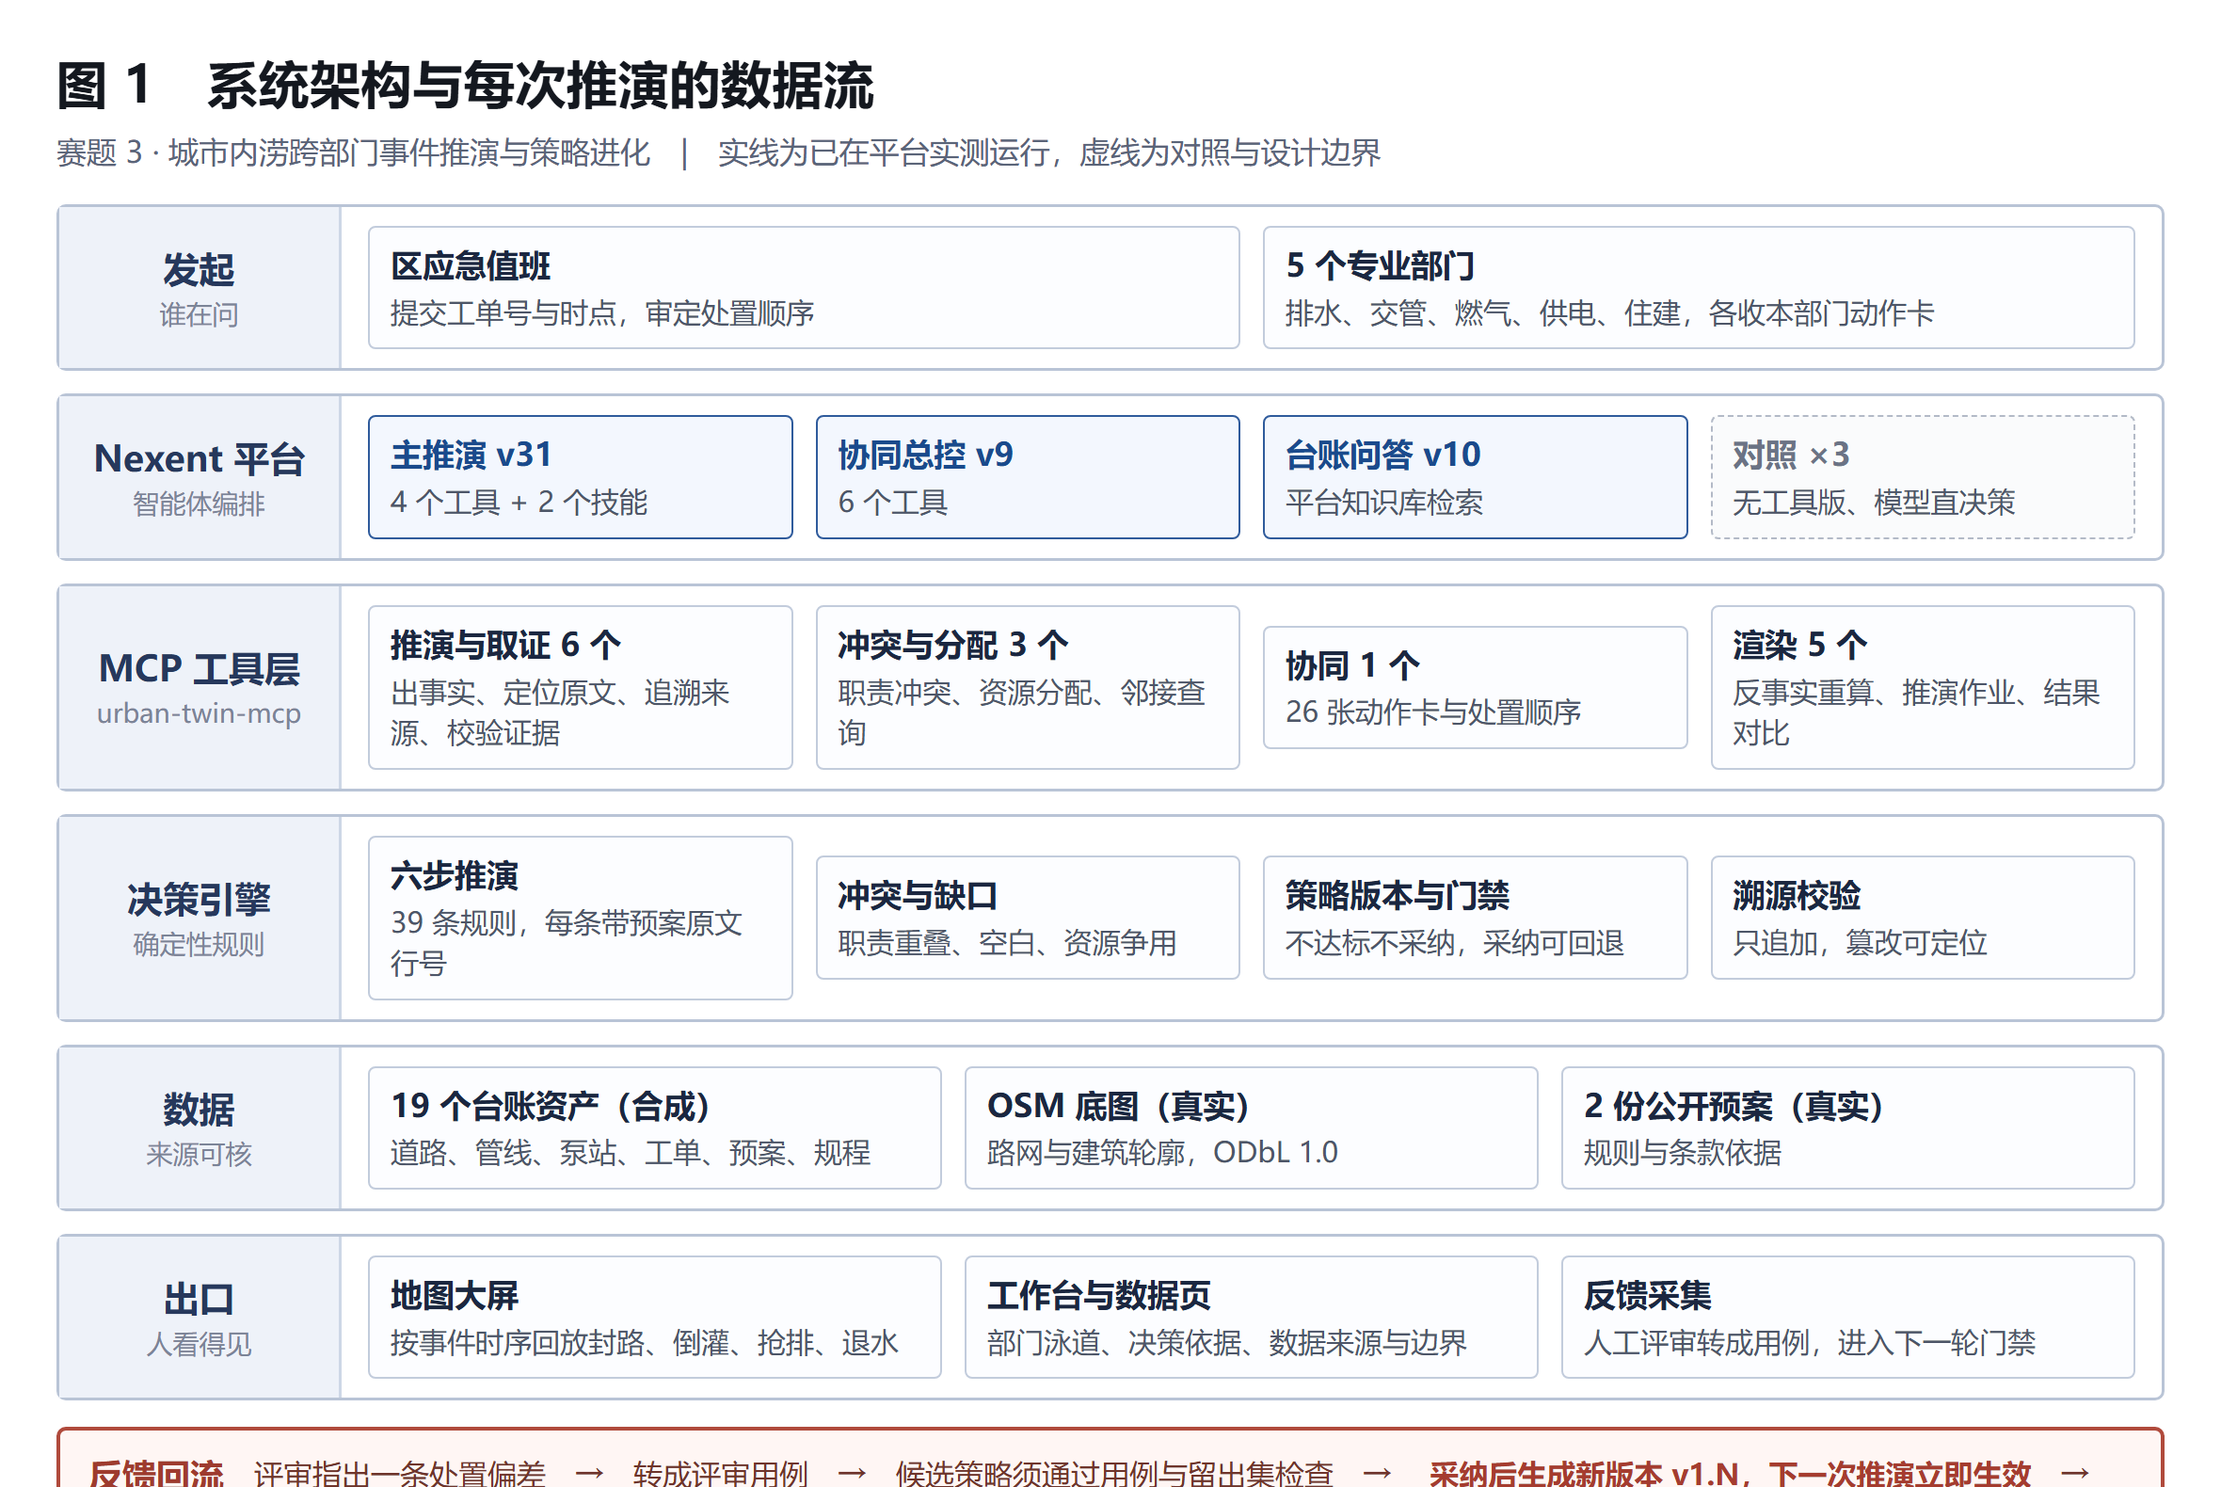
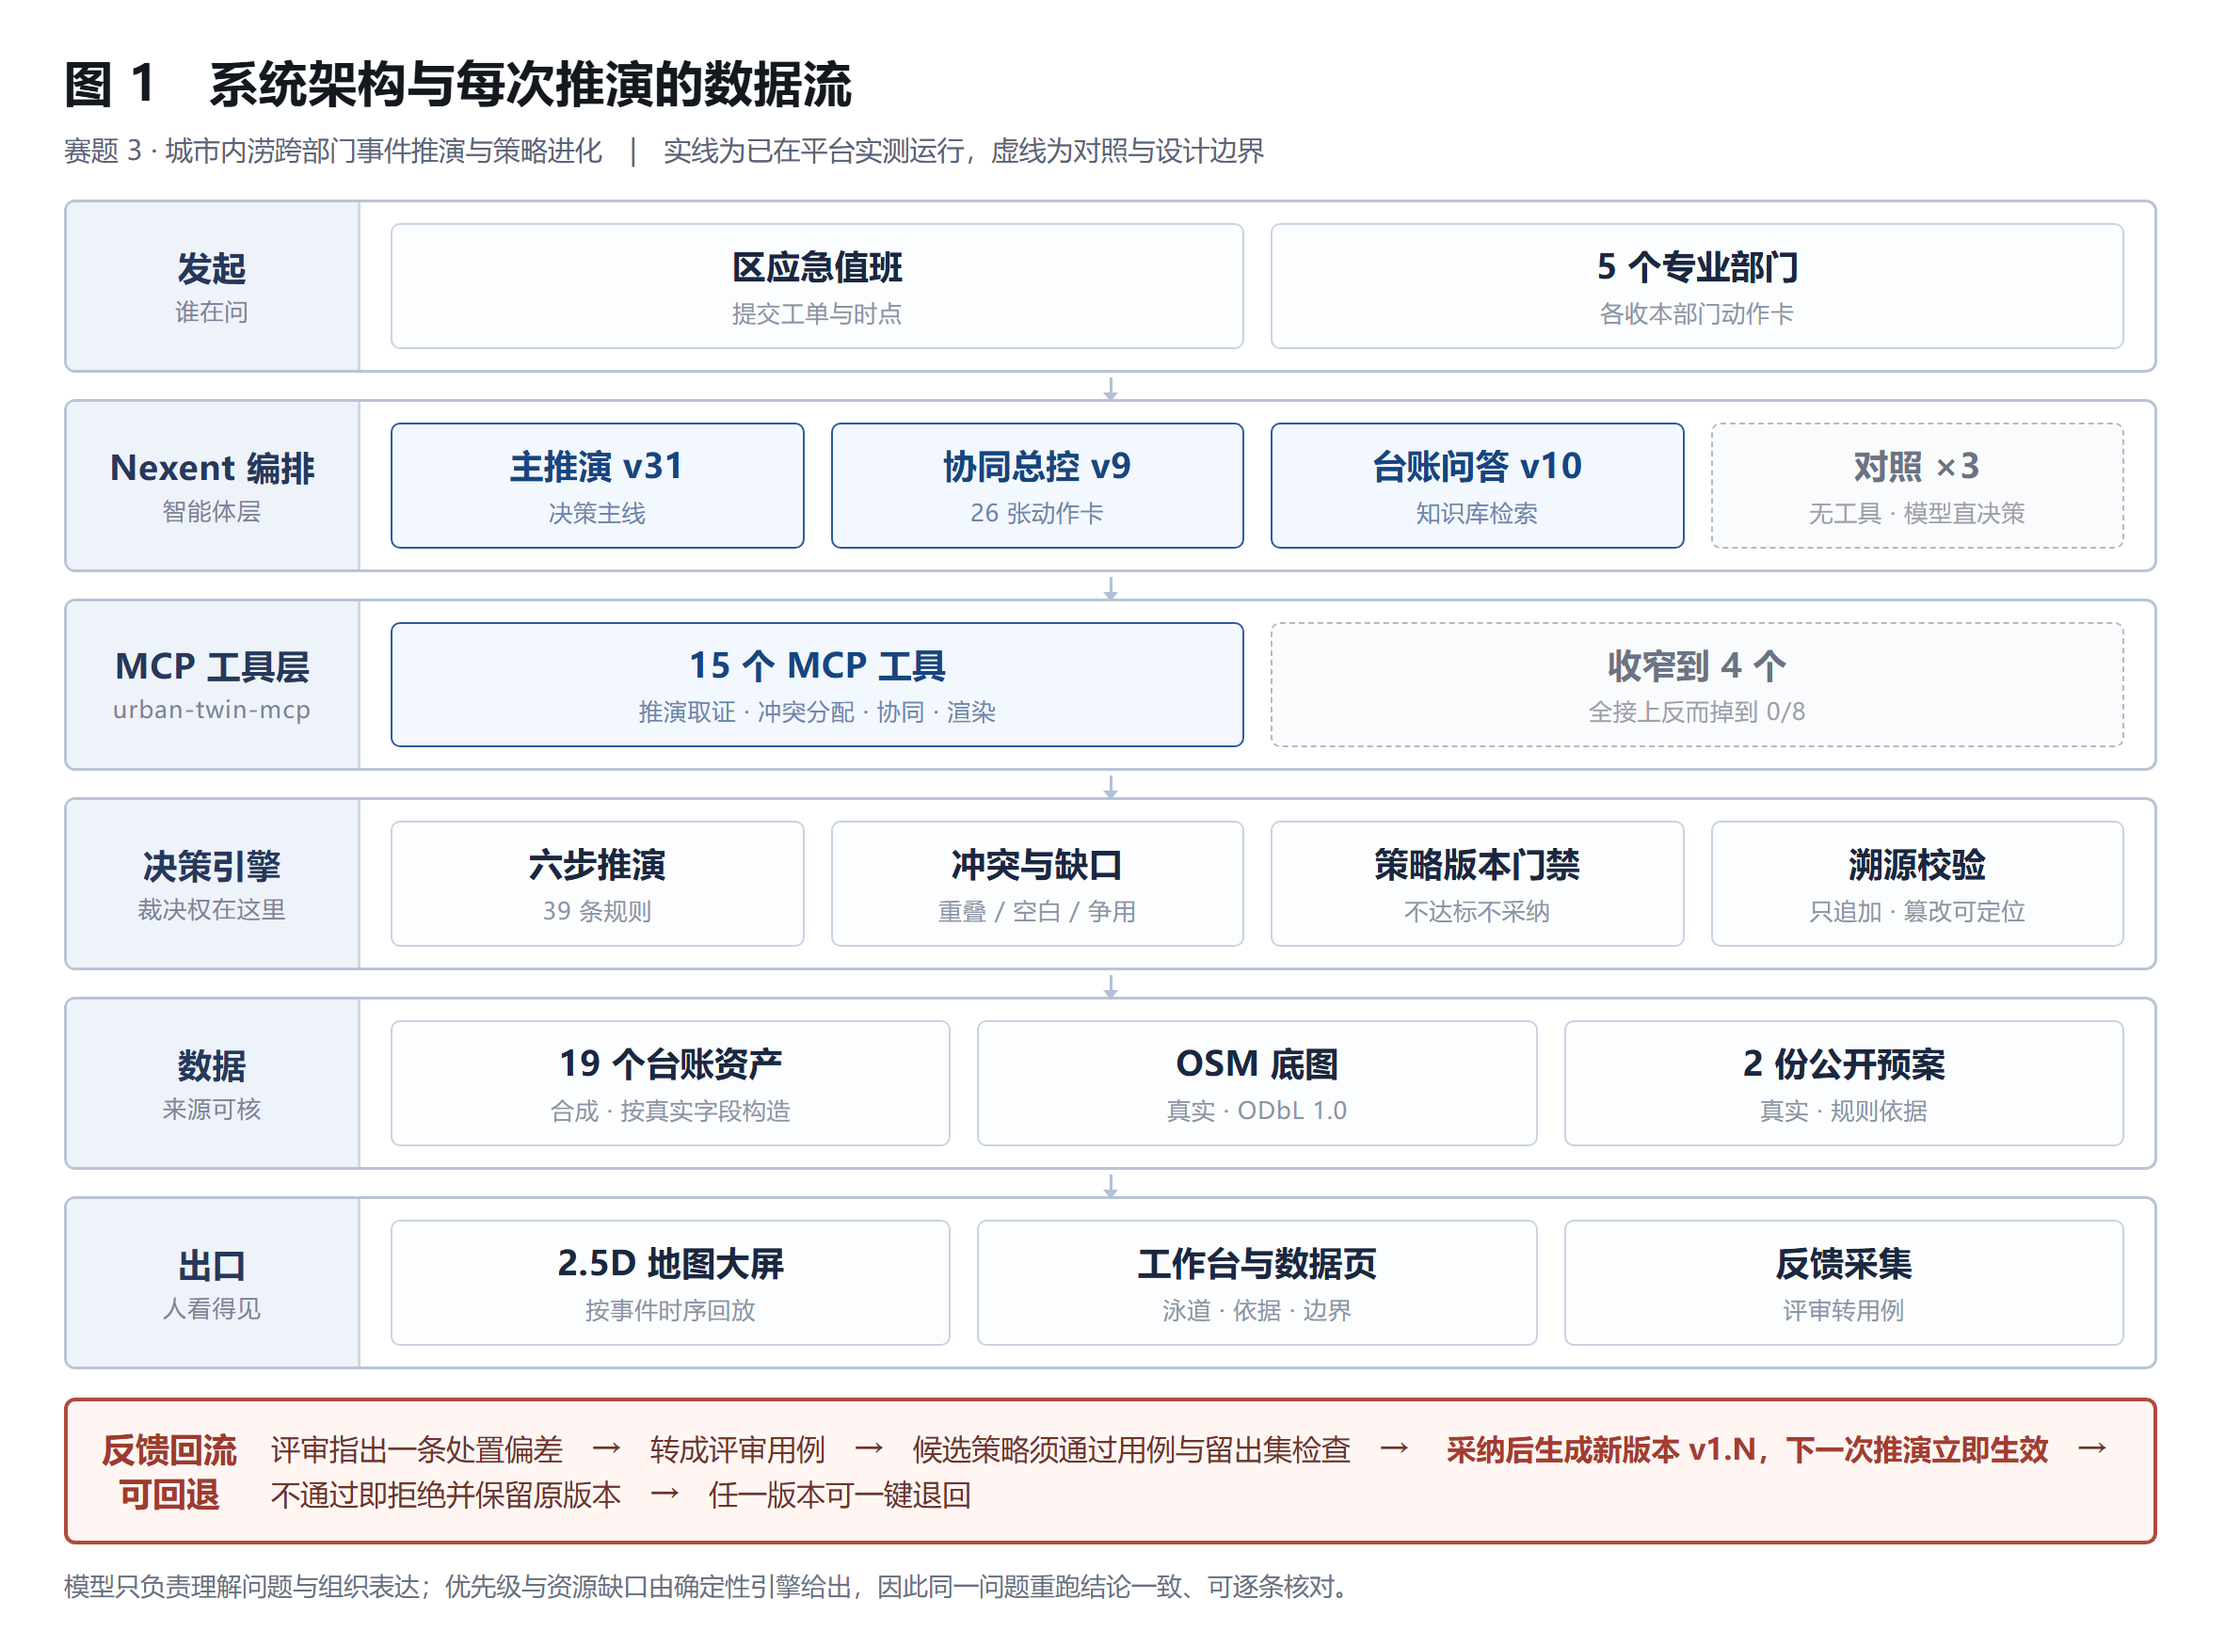
docs(readme): 目录导航上移图下、长表折叠、跑起来前置、架构图精简
- 删除「可进化」之后的 ## 目录导航 表格，改为架构图正下方一行内联锚点；
  原 6 条路径整块移入文末新增的 <details>文档去哪找</details>，信息零丢失
- 「一键跑起来」由第 3 位提到第 2 位，主代码块压到 uv sync + web_demo 两行，
  单点命令与 demo_tour 收进 <details>
- 「三个智能体 + 三个对照」由 ## 章节改为 <details>，首屏 4 行结果表保持展开
- 架构图源文件重排：删去每盒说明句、每层压到 2-4 个大模块、层间加流向箭头；
  重新导出 2 倍图 2364x1750（旧图 2360x1580）

验证：test_frozen_numbers + test_office_deliverables 15 passed；
evidence_check 108/108，指纹 06db4f93ca0b53c7 未变。

Changed region(s): [[0.0309, 0.031, 0.9898, 1.0]]

diff --git a/docs/competition/figures/arch2.html b/docs/competition/figures/arch2.html
@@ -5,35 +5,48 @@
 <style>
   * { box-sizing: border-box; margin: 0; padding: 0; }
   body {
-    width: 1180px; height: 790px; background: #fff;
+    width: 1180px; height: 872px; background: #fff;
+    zoom: 2;  /* 导出 2 倍图：截图窗口按 2360x1672 设置 */
     font-family: "Microsoft YaHei", sans-serif; color: #14181f;
-    padding: 26px 30px 20px;
+    padding: 26px 34px 20px;
   }
-  h1 { font-size: 27px; font-weight: 700; letter-spacing: .3px; }
-  .sub { font-size: 16px; color: #5a6478; margin: 8px 0 18px; }
+  h1 { font-size: 26px; font-weight: 700; letter-spacing: .3px; }
+  .sub { font-size: 14.5px; color: #5a6478; margin: 9px 0 17px; }
 
   .layer { display: flex; align-items: stretch; border: 1.5px solid #b9c4d6;
-           border-radius: 5px; margin-bottom: 12px; background: #fff; }
-  .tag { width: 150px; flex: none; background: #eef2f9; border-right: 1.5px solid #cdd7e6;
+           border-radius: 6px; background: #fff; }
+  .tag { width: 156px; flex: none; background: #eef2f9; border-right: 1.5px solid #cdd7e6;
          display: flex; flex-direction: column; align-items: center; justify-content: center;
-         padding: 8px 6px; text-align: center; }
-  .tag b { font-size: 19px; color: #26385c; line-height: 1.3; }
-  .tag i { font-size: 14px; color: #7b8497; font-style: normal; margin-top: 2px; }
-  .body { flex: 1; padding: 10px 14px; display: flex; gap: 12px; align-items: center; }
-  .box { flex: 1; border: 1px solid #c2ccdc; border-radius: 4px; padding: 8px 11px; background: #fcfdff; }
-  .box .t { font-size: 17px; font-weight: 700; color: #1b2740; line-height: 1.35; }
-  .box .d { font-size: 15px; color: #4d5668; line-height: 1.45; margin-top: 3px; }
-  .hi { border-color: #2f5b9c; background: #f3f7fe; }
-  .hi .t { color: #1a4a8c; }
+         padding: 10px 6px; text-align: center; border-radius: 4px 0 0 4px; }
+  .tag b { font-size: 18px; color: #26385c; line-height: 1.25; letter-spacing: .3px; }
+  .tag i { font-size: 12.5px; color: #7b8497; font-style: normal; margin-top: 4px; letter-spacing: .6px; }
+  .body { flex: 1; padding: 11px 16px; display: flex; gap: 14px; align-items: center; }
+
+  .box { flex: 1; border: 1px solid #c9d3e2; border-radius: 5px; padding: 10px 10px;
+         background: #fcfdff; text-align: center; }
+  .box .t { font-size: 18px; font-weight: 700; color: #1b2740; line-height: 1.3; letter-spacing: .2px; }
+  .box .n { font-size: 12.5px; color: #8b94a6; display: block; margin-top: 5px; letter-spacing: .4px; }
+  .hi  { border-color: #2f5b9c; background: #f3f7fe; }
+  .hi .t { color: #17457f; }
+  .hi .n { color: #6c86ad; }
   .dim { border-style: dashed; border-color: #b3bac7; background: #fafbfc; }
   .dim .t { color: #6b7385; }
+  .dim .n { color: #9aa1af; }
+  .wide { flex: 1.6; }
 
-  .loop { border: 2px solid #b04a3c; border-radius: 5px; background: #fff6f4;
-          padding: 11px 15px; display: flex; align-items: center; gap: 16px; margin-top: 14px; }
-  .loop .lt { font-size: 18px; font-weight: 700; color: #9e3b2e; flex: none; line-height: 1.3; text-align:center; }
+  .flow { height: 14px; display: flex; justify-content: center; align-items: center; }
+  .flow span { display: block; width: 1.5px; height: 9px; background: #b3c0d6; position: relative; }
+  .flow span::after { content: ""; position: absolute; left: -3.2px; bottom: -4px;
+    border-left: 4px solid transparent; border-right: 4px solid transparent;
+    border-top: 5px solid #b3c0d6; }
+
+  .loop { border: 2px solid #b04a3c; border-radius: 6px; background: #fff6f4;
+          padding: 13px 18px; display: flex; align-items: center; gap: 18px; margin-top: 15px; }
+  .loop .lt { font-size: 18px; font-weight: 700; color: #9e3b2e; flex: none;
+              line-height: 1.3; text-align: center; }
   .loop .lc { font-size: 15.5px; color: #6e342b; line-height: 1.55; }
   .loop .lc b { color: #a53c2f; }
-  .note { margin-top: 12px; font-size: 14px; color: #69707f; line-height: 1.6; }
+  .note { margin-top: 11px; font-size: 13.5px; color: #69707f; line-height: 1.6; }
 </style>
 </head>
 <body>
@@ -44,56 +57,64 @@
 <div class="layer">
   <div class="tag"><b>发起</b><i>谁在问</i></div>
   <div class="body">
-    <div class="box"><div class="t">区应急值班</div><div class="d">提交工单号与时点，审定处置顺序</div></div>
-    <div class="box"><div class="t">5 个专业部门</div><div class="d">排水、交管、燃气、供电、住建，各收本部门动作卡</div></div>
+    <div class="box"><div class="t">区应急值班</div><div class="n">提交工单与时点</div></div>
+    <div class="box"><div class="t">5 个专业部门</div><div class="n">各收本部门动作卡</div></div>
   </div>
 </div>
 
+<div class="flow"><span></span></div>
+
 <div class="layer">
-  <div class="tag"><b>Nexent 平台</b><i>智能体编排</i></div>
+  <div class="tag"><b>Nexent 编排</b><i>智能体层</i></div>
   <div class="body">
-    <div class="box hi"><div class="t">主推演 v31</div><div class="d">4 个工具 + 2 个技能</div></div>
-    <div class="box hi"><div class="t">协同总控 v9</div><div class="d">6 个工具</div></div>
-    <div class="box hi"><div class="t">台账问答 v10</div><div class="d">平台知识库检索</div></div>
-    <div class="box dim"><div class="t">对照 ×3</div><div class="d">无工具版、模型直决策</div></div>
+    <div class="box hi"><div class="t">主推演 v31</div><div class="n">决策主线</div></div>
+    <div class="box hi"><div class="t">协同总控 v9</div><div class="n">26 张动作卡</div></div>
+    <div class="box hi"><div class="t">台账问答 v10</div><div class="n">知识库检索</div></div>
+    <div class="box dim"><div class="t">对照 ×3</div><div class="n">无工具 · 模型直决策</div></div>
   </div>
 </div>
+
+<div class="flow"><span></span></div>
 
 <div class="layer">
   <div class="tag"><b>MCP 工具层</b><i>urban-twin-mcp</i></div>
   <div class="body">
-    <div class="box"><div class="t">推演与取证 6 个</div><div class="d">出事实、定位原文、追溯来源、校验证据</div></div>
-    <div class="box"><div class="t">冲突与分配 3 个</div><div class="d">职责冲突、资源分配、邻接查询</div></div>
-    <div class="box"><div class="t">协同 1 个</div><div class="d">26 张动作卡与处置顺序</div></div>
-    <div class="box"><div class="t">渲染 5 个</div><div class="d">反事实重算、推演作业、结果对比</div></div>
+    <div class="box wide hi"><div class="t">15 个 MCP 工具</div><div class="n">推演取证 · 冲突分配 · 协同 · 渲染</div></div>
+    <div class="box wide dim"><div class="t">收窄到 4 个</div><div class="n">全接上反而掉到 0/8</div></div>
   </div>
 </div>
 
+<div class="flow"><span></span></div>
+
 <div class="layer">
-  <div class="tag"><b>决策引擎</b><i>确定性规则</i></div>
+  <div class="tag"><b>决策引擎</b><i>裁决权在这里</i></div>
   <div class="body">
-    <div class="box"><div class="t">六步推演</div><div class="d">39 条规则，每条带预案原文行号</div></div>
-    <div class="box"><div class="t">冲突与缺口</div><div class="d">职责重叠、空白、资源争用</div></div>
-    <div class="box"><div class="t">策略版本与门禁</div><div class="d">不达标不采纳，采纳可回退</div></div>
-    <div class="box"><div class="t">溯源校验</div><div class="d">只追加，篡改可定位</div></div>
+    <div class="box"><div class="t">六步推演</div><div class="n">39 条规则</div></div>
+    <div class="box"><div class="t">冲突与缺口</div><div class="n">重叠 / 空白 / 争用</div></div>
+    <div class="box"><div class="t">策略版本门禁</div><div class="n">不达标不采纳</div></div>
+    <div class="box"><div class="t">溯源校验</div><div class="n">只追加 · 篡改可定位</div></div>
   </div>
 </div>
+
+<div class="flow"><span></span></div>
 
 <div class="layer">
   <div class="tag"><b>数据</b><i>来源可核</i></div>
   <div class="body">
-    <div class="box"><div class="t">19 个台账资产（合成）</div><div class="d">道路、管线、泵站、工单、预案、规程</div></div>
-    <div class="box"><div class="t">OSM 底图（真实）</div><div class="d">路网与建筑轮廓，ODbL 1.0</div></div>
-    <div class="box"><div class="t">2 份公开预案（真实）</div><div class="d">规则与条款依据</div></div>
+    <div class="box"><div class="t">19 个台账资产</div><div class="n">合成 · 按真实字段构造</div></div>
+    <div class="box"><div class="t">OSM 底图</div><div class="n">真实 · ODbL 1.0</div></div>
+    <div class="box"><div class="t">2 份公开预案</div><div class="n">真实 · 规则依据</div></div>
   </div>
 </div>
+
+<div class="flow"><span></span></div>
 
 <div class="layer">
   <div class="tag"><b>出口</b><i>人看得见</i></div>
   <div class="body">
-    <div class="box"><div class="t">地图大屏</div><div class="d">按事件时序回放封路、倒灌、抢排、退水</div></div>
-    <div class="box"><div class="t">工作台与数据页</div><div class="d">部门泳道、决策依据、数据来源与边界</div></div>
-    <div class="box"><div class="t">反馈采集</div><div class="d">人工评审转成用例，进入下一轮门禁</div></div>
+    <div class="box"><div class="t">2.5D 地图大屏</div><div class="n">按事件时序回放</div></div>
+    <div class="box"><div class="t">工作台与数据页</div><div class="n">泳道 · 依据 · 边界</div></div>
+    <div class="box"><div class="t">反馈采集</div><div class="n">评审转用例</div></div>
   </div>
 </div>
 
@@ -103,7 +124,7 @@
     <b>采纳后生成新版本 v1.N，下一次推演立即生效</b>　→　不通过即拒绝并保留原版本　→　任一版本可一键退回</div>
 </div>
 
-<div class="note">模型只负责理解问题与组织表达，优先级与资源缺口由确定性引擎给出，因此同一问题重跑结论一致、可逐条核对。</div>
+<div class="note">模型只负责理解问题与组织表达；优先级与资源缺口由确定性引擎给出，因此同一问题重跑结论一致、可逐条核对。</div>
 
 </body>
 </html>
